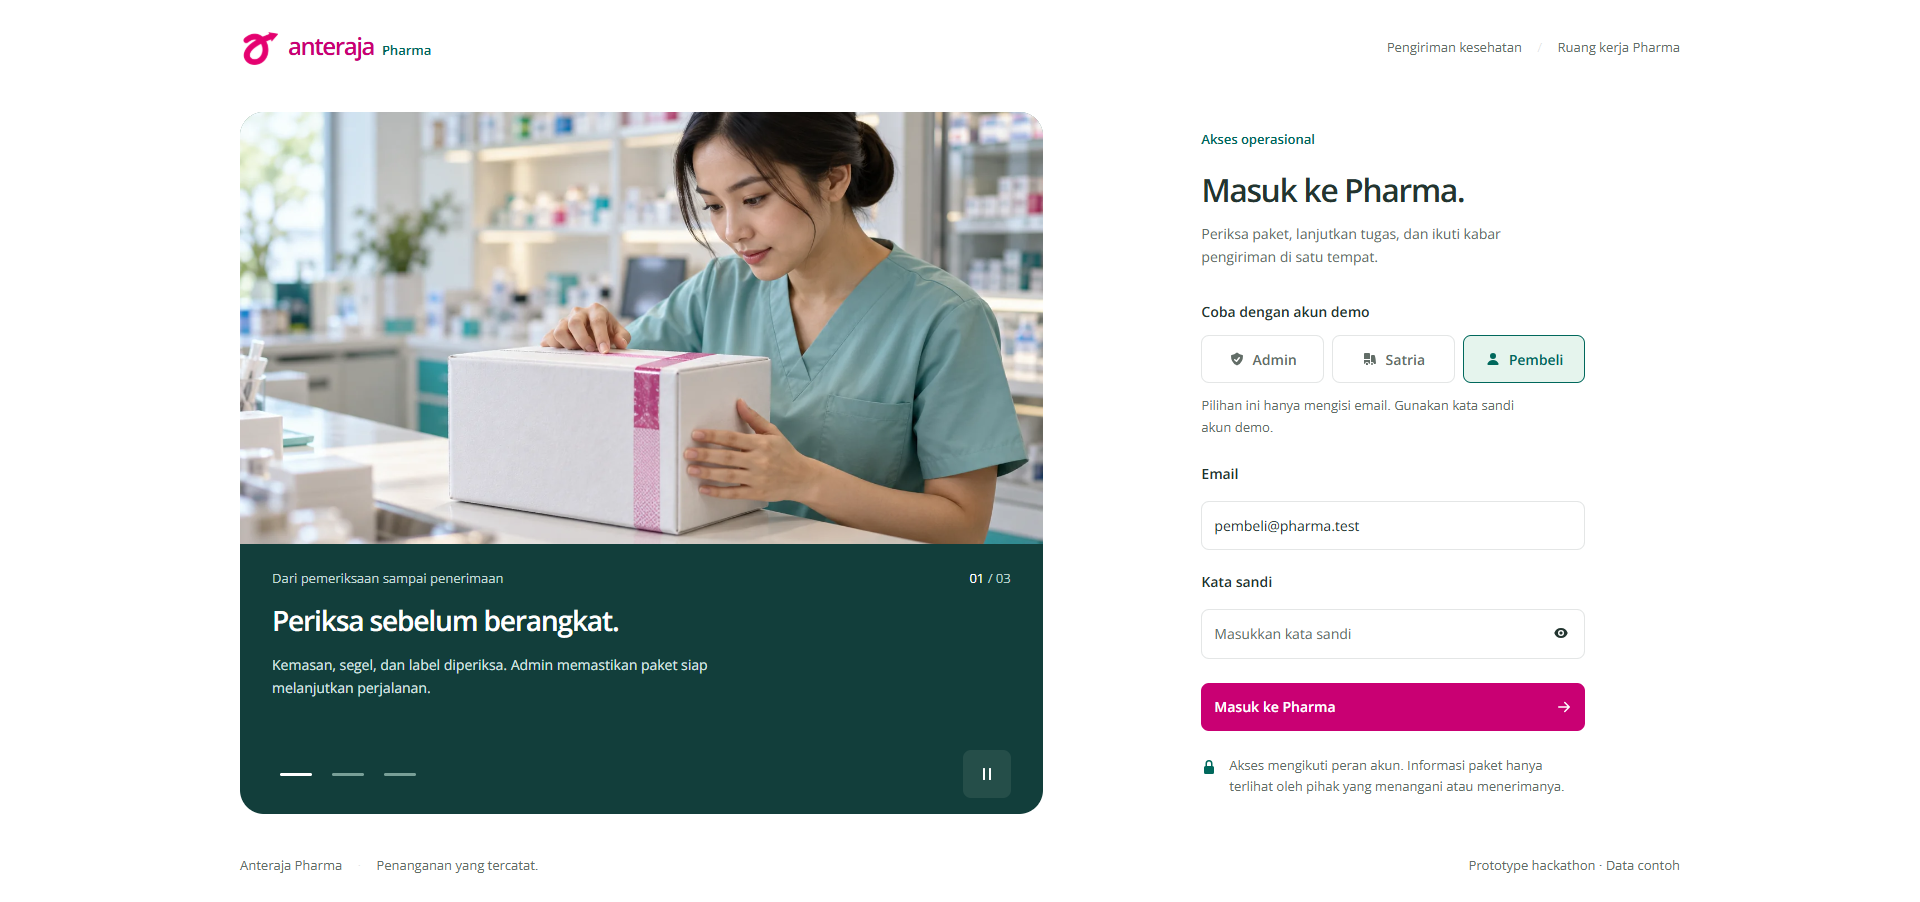
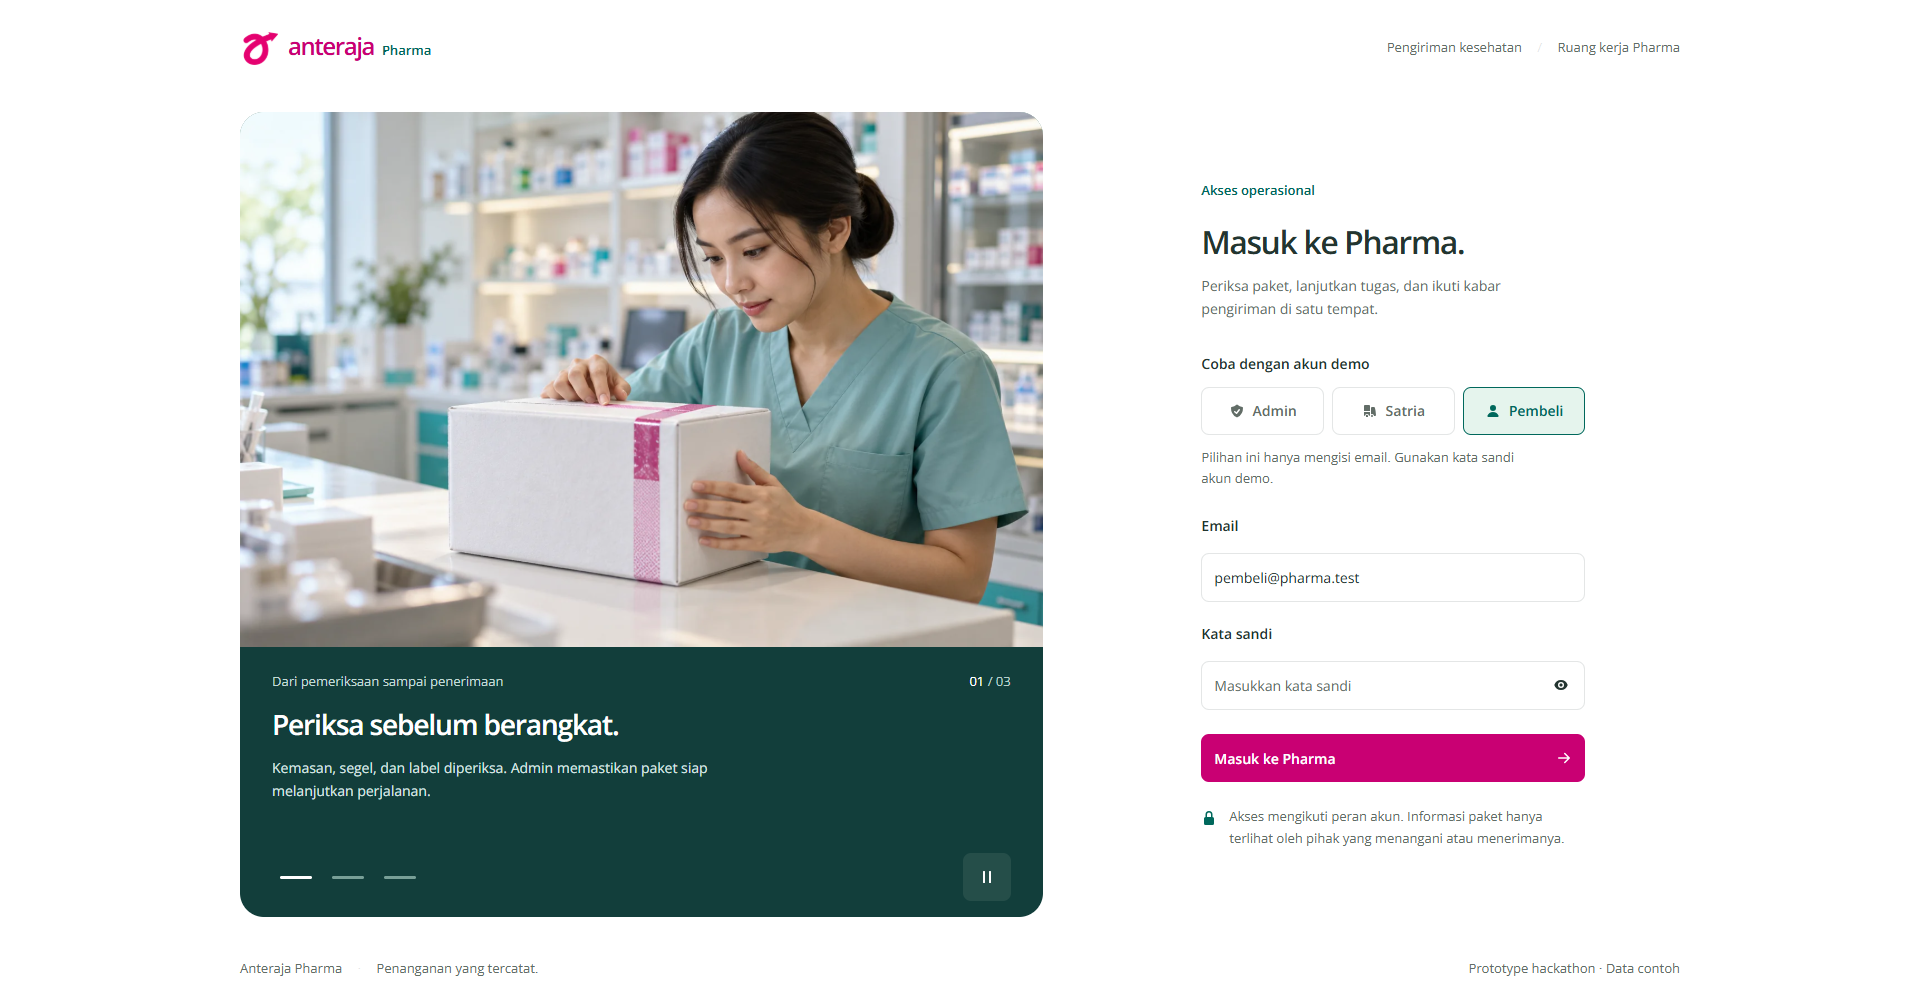
Preserve full photo framing across login breakpoints

diff --git a/frontend/login.css b/frontend/login.css
@@ -51,7 +51,6 @@
   position: relative;
   width: 100%;
   aspect-ratio: 3 / 2;
-  max-height: 48dvh;
   isolation: isolate;
   background: var(--teal-soft);
 }
@@ -60,7 +59,7 @@
   inset: 0;
   height: 100%;
   width: 100%;
-  object-fit: cover;
+  object-fit: contain;
   opacity: 0;
   transition: opacity 600ms var(--enter);
 }
@@ -317,7 +316,6 @@
   }
   .story-photograph {
     aspect-ratio: 3 / 2;
-    max-height: none;
   }
   .pharma-story {
     border-radius: var(--panel-radius);

diff --git a/docs/QA.md b/docs/QA.md
@@ -57,7 +57,7 @@ Tidak mengklaim audit WCAG menyeluruh, performa produksi, semua kombinasi perang
 | Path Windows dengan & mengganggu launcher dependency | Node/PHP/Java dipanggil langsung dengan path relatif/ter-quote yang aman |
 | Credential role baru belum mengikat pesan lama | Delivery dapat memakai konfigurasi chat ID per role setelah token dipasang |
 | Legend pilihan akun demo menjadi item grid dan membuat Pembeli turun baris | Legend dipisahkan dari grid tiga tombol, diuji pada empat lebar layar |
-| Foto menyisakan bidang kosong ketika tinggi panel dibatasi | Lebar wrapper foto eksplisit; object-fit cover memenuhi panel |
+| Foto terpotong oleh batas tinggi viewport | Rasio asli 3:2 tanpa max-height, object-fit contain; 12 kombinasi foto/breakpoint dibandingkan dengan ukuran asli |
 | Caption bertumpuk saat pergantian slide | Outgoing caption disembunyikan langsung, incoming fade; tinggi stack tetap stabil |
 | Pesan belum terkonfigurasi dapat menahan antrean baru | Pesan pending baru diprioritaskan; konfigurasi yang belum tersedia dicoba ulang setelah 15 menit |
 | Riwayat seed berpotensi terkirim ketika token dipasang belakangan | Pesan contoh diberi status demo, bukan antrean pengiriman; 664 pesan seed lokal ditandai tanpa menghapus audit |
@@ -65,3 +65,5 @@ Tidak mengklaim audit WCAG menyeluruh, performa produksi, semua kombinasi perang
 ## Bukti
 
 `output/e2e-results.json`, `output/screenshots/`, `output/e2e-report.csv`, dan APK lokal. Trace kegagalan pengembangan tidak masuk Git. Environment dan akun demo ada pada file privat yang di-ignore. Milestone presentasi/review/judging hanya dapat dicatat setelah kegiatan nyata.
+
+Perbaikan framing foto: `node tools/qa-login.mjs` lulus pada 375/768/1440/1920px untuk ketiga slide. Screenshot `pharma-photo-*-*.png` memperlihatkan komposisi utuh. Ketiga akun demo juga berhasil login lewat API Laravel nyata menggunakan password dari file privat; password tidak disimpan dalam bukti atau repository.

diff --git a/docs/AUTH-DESIGN.md b/docs/AUTH-DESIGN.md
@@ -6,6 +6,8 @@ Tiga pilihan akun demo selalu berada pada satu baris. Legend berada di luar grid
 
 Pada mobile, form ditempatkan lebih dahulu dan carousel di bawahnya. Caption tidak menutupi wajah atau paket. Grid caption menyimpan ukuran seluruh slide sehingga pergantian tidak memindahkan form. Carousel memakai interval empat detik, kontrol manual, pause saat hover/focus, pause ketika tab tersembunyi, serta reduced-motion.
 
+Foto memakai rasio asli 3:2 dan `object-fit: contain`, tanpa batas tinggi berbasis viewport. Seluruh komposisi terlihat, termasuk bagian atas kepala dan bawah paket. Pada layar desktop pendek, halaman boleh scroll vertikal daripada memotong gambar. Pengujian membandingkan rasio render dengan rasio asli untuk ketiga foto pada empat ukuran layar.
+
 ## Aset lokal
 
 - `public/images/pharma-inspection.webp`: pemeriksaan segel kemasan kesehatan, 77.040 byte.
